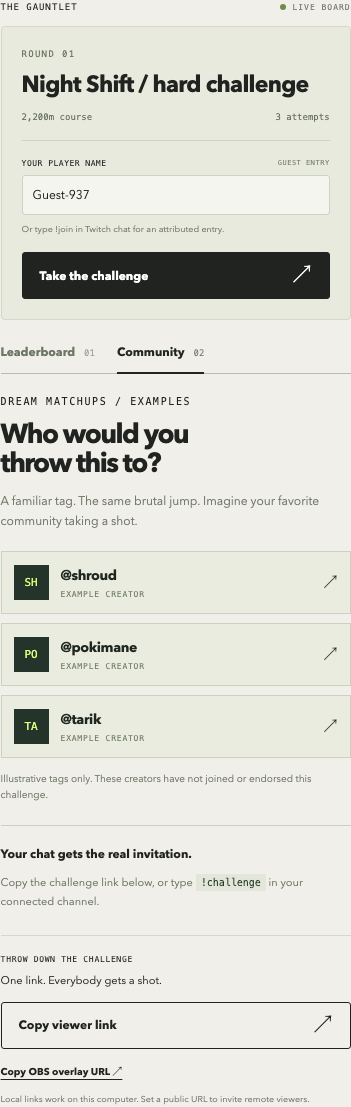
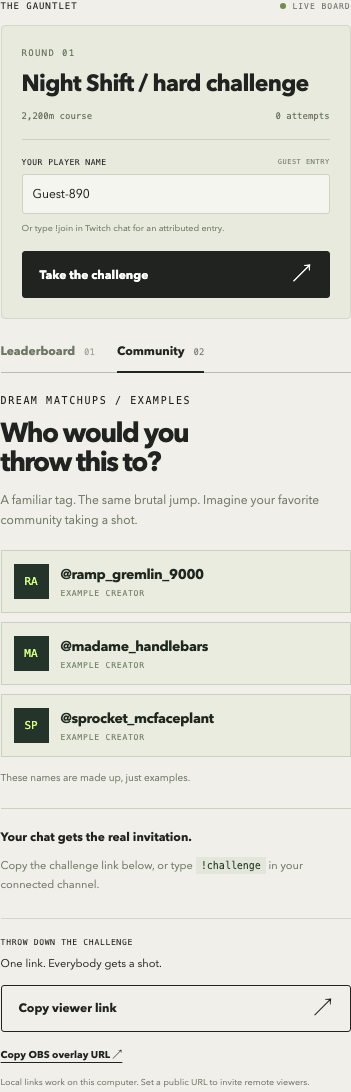
Replace real creators in Community tab with made-up examples
The tab appears in the demo video, and the hackathon rules bar using
others' trademark or privacy rights without permission. Cards are now
plain, non-link elements so invented handles cannot point at a channel
someone might own. Recapture community.png to match.

diff --git a/public/style.css b/public/style.css
@@ -2,4 +2,4 @@
 @media(min-width:761px){.topbar{height:70px}.intro{padding:26px 0 25px;gap:24px}.intro h1{display:flex;align-items:baseline;gap:16px;font-size:clamp(42px,4.5vw,64px);letter-spacing:-3.5px;margin:14px 0 12px}.intro h1 br{display:none}.intro p{font-size:12px}.intro p br{display:none}.intro-right{width:31%;padding:0 12px}.sketch-track{height:77px;margin:12px 0 12px}.sketch-track>b{font-size:56px;top:-7px;left:28%}.sketch-player{bottom:38px;width:19px;height:24px}.sketch-track>span:not(.sketch-player){height:29px;width:27px}.sketch-track>span:nth-child(3){height:43px}.sketch-track>span:nth-child(4){height:25px}.flow{font-size:7px}.edition{font-size:8px}.viewer .intro{padding:26px 0}.viewer .intro h1{font-size:54px}}
 body.broadcast-mode .intro,body.broadcast-mode .how-it-works,body.broadcast-mode footer{display:none}body.broadcast-mode main{padding-top:24px;max-width:1600px}body.broadcast-mode .topbar{height:62px}body.broadcast-mode .workspace{gap:26px}body.broadcast-mode .share-card{margin-top:18px}body.broadcast-mode .host-tools{margin-top:12px}
 
-.arena-levels{display:flex;align-items:center;gap:10px}.difficulty-chip{font:9px var(--mono,monospace);letter-spacing:.08em;color:#ff9273;border:1px solid #ff613b55;padding:6px 8px;white-space:nowrap}.board-tabs{display:flex;border-bottom:1px solid #b7beab;margin-top:24px;gap:22px}.board-tabs button{appearance:none;border:0;border-bottom:2px solid transparent;margin-bottom:-1px;padding:0 0 12px;background:none;cursor:pointer;font:700 12px var(--sans,sans-serif);color:#6d7765}.board-tabs button[aria-selected=true]{border-bottom-color:#20271f;color:#20271f}.board-tabs button span{font:9px var(--mono,monospace);margin-left:6px;font-weight:400;opacity:.6}.board-tabs button:focus-visible{outline:2px solid #ff613b;outline-offset:4px}.community-panel{padding-top:22px}.community-panel h3{font-size:27px;line-height:1.05;letter-spacing:-.055em;margin:14px 0}.community-panel>p{font-size:12px;line-height:1.65;color:#737d6a;margin:0 0 20px}.community-tags{display:grid;gap:9px}.community-tags a{display:flex;align-items:center;gap:12px;border:1px solid #ccd0c0;padding:13px 12px;color:#20271f;text-decoration:none;background:#e9ecdf}.community-tags a:hover{border-color:#ff613b;background:#f1f3e9}.tag-avatar{display:grid;place-items:center;width:35px;height:35px;background:#25342a;color:#d6ff7e;font:11px var(--mono,monospace)}.community-tags strong{display:block;font-size:14px;letter-spacing:-.025em}.community-tags small{display:block;font:8px var(--mono,monospace);letter-spacing:.1em;color:#78836b;margin-top:5px}.community-tags a>span:last-child{margin-left:auto}.community-note{display:block;margin:13px 0 0;font-size:10px;line-height:1.6;color:#737d6a}.community-invite{border-top:1px solid #ccd0c0;margin-top:22px;padding-top:18px}.community-invite strong{font-size:12px}.community-invite p{font-size:11px;line-height:1.65;color:#737d6a}.community-invite code{color:#263b26}[role=tabpanel][hidden]{display:none}@media(max-width:600px){.difficulty-chip{font-size:7px;padding:5px}.arena-levels{gap:5px}.community-panel h3{font-size:28px}}
+.arena-levels{display:flex;align-items:center;gap:10px}.difficulty-chip{font:9px var(--mono,monospace);letter-spacing:.08em;color:#ff9273;border:1px solid #ff613b55;padding:6px 8px;white-space:nowrap}.board-tabs{display:flex;border-bottom:1px solid #b7beab;margin-top:24px;gap:22px}.board-tabs button{appearance:none;border:0;border-bottom:2px solid transparent;margin-bottom:-1px;padding:0 0 12px;background:none;cursor:pointer;font:700 12px var(--sans,sans-serif);color:#6d7765}.board-tabs button[aria-selected=true]{border-bottom-color:#20271f;color:#20271f}.board-tabs button span{font:9px var(--mono,monospace);margin-left:6px;font-weight:400;opacity:.6}.board-tabs button:focus-visible{outline:2px solid #ff613b;outline-offset:4px}.community-panel{padding-top:22px}.community-panel h3{font-size:27px;line-height:1.05;letter-spacing:-.055em;margin:14px 0}.community-panel>p{font-size:12px;line-height:1.65;color:#737d6a;margin:0 0 20px}.community-tags{display:grid;gap:9px}.community-tags>div{display:flex;align-items:center;gap:12px;border:1px solid #ccd0c0;padding:13px 12px;color:#20271f;background:#e9ecdf}.tag-avatar{display:grid;place-items:center;width:35px;height:35px;background:#25342a;color:#d6ff7e;font:11px var(--mono,monospace)}.community-tags strong{display:block;font-size:14px;letter-spacing:-.025em}.community-tags small{display:block;font:8px var(--mono,monospace);letter-spacing:.1em;color:#78836b;margin-top:5px}.community-note{display:block;margin:13px 0 0;font-size:10px;line-height:1.6;color:#737d6a}.community-invite{border-top:1px solid #ccd0c0;margin-top:22px;padding-top:18px}.community-invite strong{font-size:12px}.community-invite p{font-size:11px;line-height:1.65;color:#737d6a}.community-invite code{color:#263b26}[role=tabpanel][hidden]{display:none}@media(max-width:600px){.difficulty-chip{font-size:7px;padding:5px}.arena-levels{gap:5px}.community-panel h3{font-size:28px}}

diff --git a/public/index.html b/public/index.html
@@ -54,11 +54,11 @@
             <h3>Who would you<br>throw this to?</h3>
             <p>A familiar tag. The same brutal jump. Imagine your favorite community taking a shot.</p>
             <div class="community-tags">
-              <a href="https://www.twitch.tv/shroud" target="_blank" rel="noopener noreferrer"><span class="tag-avatar" aria-hidden="true">SH</span><span><strong>@shroud</strong><small>EXAMPLE CREATOR</small></span><span aria-hidden="true">↗</span></a>
-              <a href="https://www.twitch.tv/pokimane" target="_blank" rel="noopener noreferrer"><span class="tag-avatar" aria-hidden="true">PO</span><span><strong>@pokimane</strong><small>EXAMPLE CREATOR</small></span><span aria-hidden="true">↗</span></a>
-              <a href="https://www.twitch.tv/tarik" target="_blank" rel="noopener noreferrer"><span class="tag-avatar" aria-hidden="true">TA</span><span><strong>@tarik</strong><small>EXAMPLE CREATOR</small></span><span aria-hidden="true">↗</span></a>
+              <div><span class="tag-avatar" aria-hidden="true">RA</span><span><strong>@ramp_gremlin_9000</strong><small>EXAMPLE CREATOR</small></span></div>
+              <div><span class="tag-avatar" aria-hidden="true">MA</span><span><strong>@madame_handlebars</strong><small>EXAMPLE CREATOR</small></span></div>
+              <div><span class="tag-avatar" aria-hidden="true">SP</span><span><strong>@sprocket_mcfaceplant</strong><small>EXAMPLE CREATOR</small></span></div>
             </div>
-            <small class="community-note">Illustrative tags only. These creators have not joined or endorsed this challenge.</small>
+            <small class="community-note">These names are made up, just examples.</small>
             <div class="community-invite"><strong>Your chat gets the real invitation.</strong><p>Copy the challenge link below, or type <code>!challenge</code> in your connected channel.</p></div>
           </section>
           <div class="share-card"><span class="eyebrow">THROW DOWN THE CHALLENGE</span><p>One link. Everybody gets a shot.</p><button id="copy-link" class="button wide outline">Copy viewer link <span>↗</span></button><button id="copy-overlay" class="text-button">Copy OBS overlay URL ↗</button><small id="share-note">Local links work on this computer. Set a public URL to invite remote viewers.</small></div>

diff --git a/README.md b/README.md
@@ -65,9 +65,9 @@ flowchart LR
 
 ![Challenge entry and server-verified community leaderboard](docs/images/leaderboard.png)
 
-**The Community tab.** Example creator tags show how a challenge could be thrown to a familiar community. The tags are illustrative only; these creators have not joined or endorsed the challenge.
+**The Community tab.** Example creator tags show how a challenge could be thrown to a familiar community. The names are made up.
 
-![Community tab with example creator tags](docs/images/community.png)
+![Community tab with made-up example creator tags](docs/images/community.png)
 
 ## A path to deeper game integration
 
